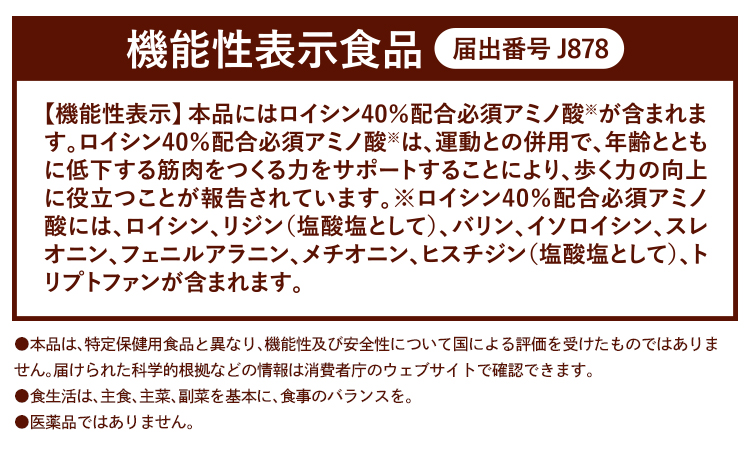
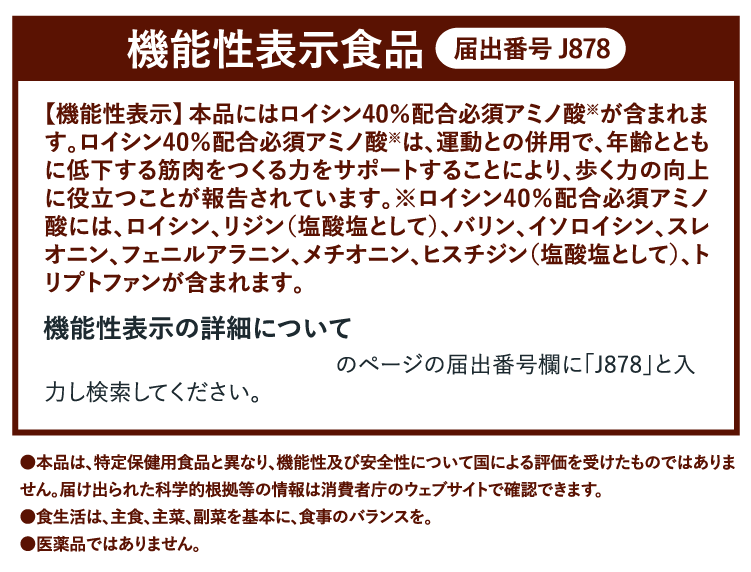
201改修

diff --git a/sp/cp/hd/ava201cp/index.html b/sp/cp/hd/ava201cp/index.html
@@ -166,7 +166,10 @@
           </span>
         </div>
         <p><img src="img/img_06.png" alt=""></p>
-        <p><img src="img/img_07.png" alt=""></p>
+        <div class="link_function">
+          <p><img src="img/img_30.png" alt=""></p>
+          <p class="text"><a href="https://www.fld.caa.go.jp/caaks/s/cssc01/" target="_blank">こちら（機能性表示食品検索）</a></p>
+        </div>
         <div>
           <span>
             <span class="marker_03 bold">
@@ -330,23 +333,13 @@
         <p><img src="img/img_15.png" alt=""></p>
         <div>
           <span>
-            味の素（株）では、<br>
-            食品メーカーとして長年培ってきた<br>
-            <span class="font_19 color_red_01 bold marker_02">独自の品質管理基準</span>をもとに、<br>
-            丁寧に品質をチェックしています。<br>
-            また製造は、<br>
-            厚生労働省のガイドラインに沿った<br>
-            <span class="font_19 color_red_01 bold marker_02">GMP（適正製造規範）認定工場</span>で実施。<br>
-            毎日口にするものだからこそ、<br>
-            <span class="font_19 color_red_01 bold marker_03">「安心して選べる品質づくり」</span><br>
-            を大切にしています。
+            ①国際的な品質マネジメントの考え方（ISOなど）を参考に、独自の品質保証システム「ASQUA」を構築し、原料から製造まで一貫した品質管理を行っています。<br>
+            ②製造工場は、国際的な食品安全規格である<br>
+            FSSC22000の認証を取得しており、原料管理から製造工程まで、厳格な衛生管理体制のもとで製造しています。あわせて、開発から出荷までの各工程で品質確認を行っています。
           </span>
         </div>
         <div class="note note_03">
-          <span>※公益財団法人日本健康・栄養食品協会による認定で、GMPはGood Manufacturing Practiceの略</span>
-        </div>
-        <div class="note note_03">
-          <span>※写真はイメージ</span>
+          <span>※写真はイメージです。</span>
         </div>
         <br>
         <p><img src="img/img_16.png" alt=""></p>
@@ -394,7 +387,7 @@
         </div>
         <p><img src="img/img_21.png" alt=""></p>
         <div class="note note_02">
-          <span>※味の素（株）調べ（2015年12月）旧商品「アミノエール」購入者への実感アンケート調査（N-294、「飲み続けたい」「どちらかというと飲み続けたい」と答えた人の合計）累計販売数</span>
+          <span>※味の素（株）調べ（2015年12月）旧商品「アミノエール」購入者への実感アンケート調査（N-294、「飲み続けたい」「どちらかというと飲み続けたい」と答えた人の合計）</span>
         </div>
         <br>
         <div>
